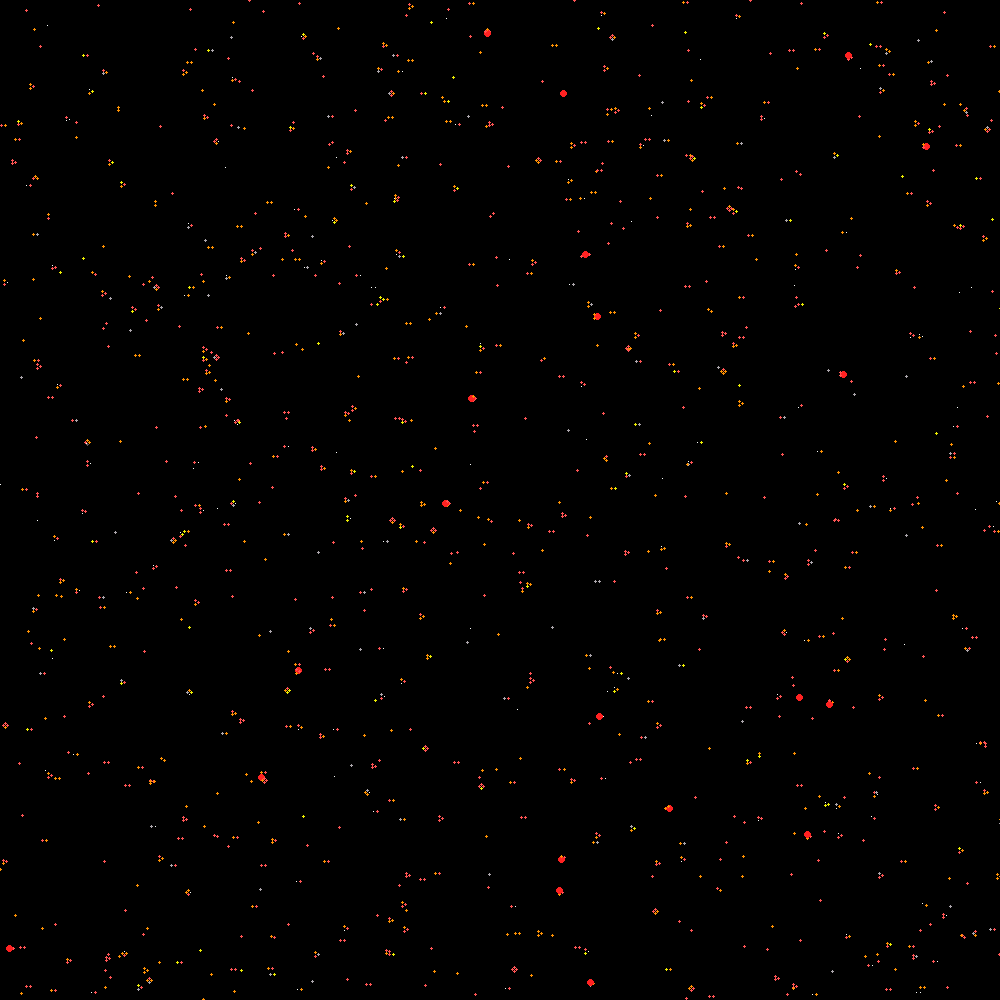
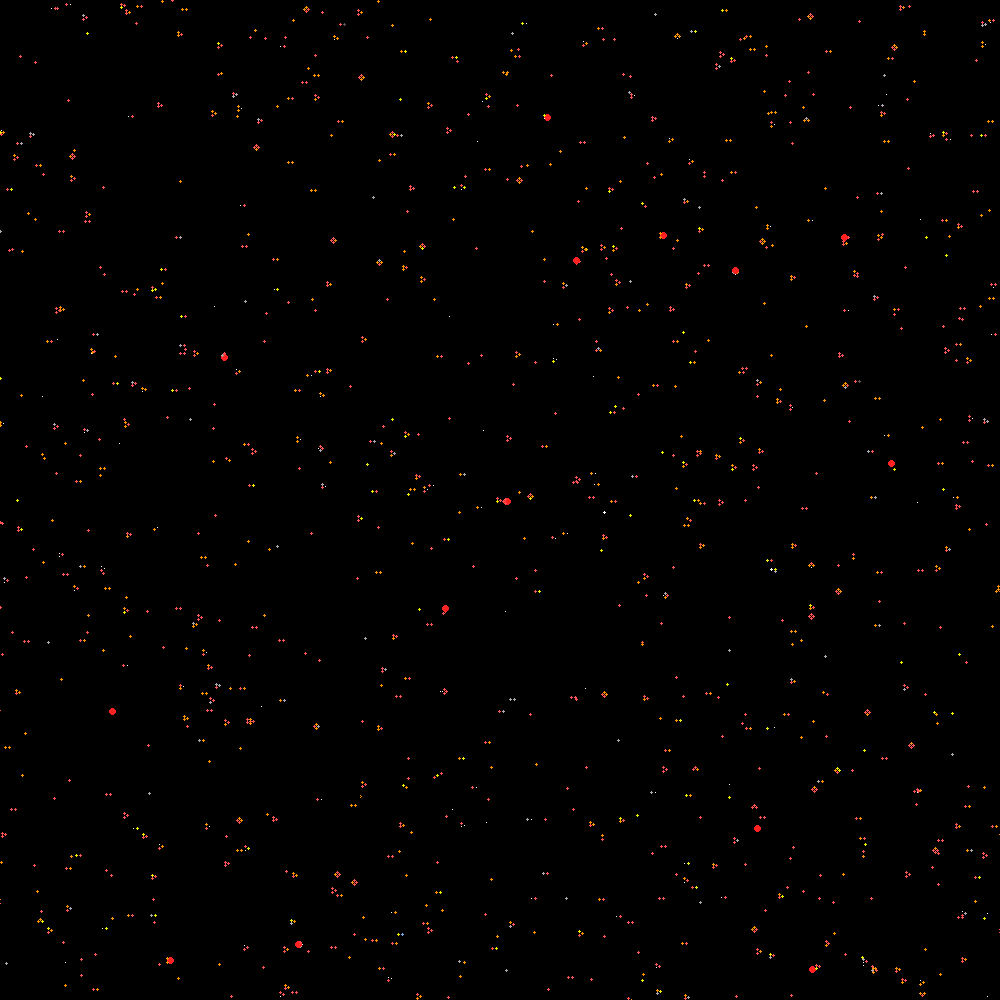
correctif post-refacto re-ouverture de la génération du disque sur 360° (limitée pour tests précédement)

diff --git a/loader.php b/loader.php
@@ -1,7 +1,9 @@
 <?php 
 //a chaque appel d'une classe non chargée on passera par ici
 function __autoload($class) {
-	$parts = preg_split('#\\\#', $class);	
+	$rootDir="/var/www/html/perso/bigbang/";
+	$parts = preg_split('#\\\#', $class);
+	
 	// on extrait le dernier element
 	$classname = array_pop($parts);	
 	
@@ -10,13 +12,14 @@ function __autoload($class) {
 	
 	
 	if(ereg("service", $classname)){
-		$filename = "./services/". $classname .".php";
+		$filename = $rootDir."services/". $classname .".php";
 	}else{
-		$filename = "./objects/". $classname ."_object.php";
+		$filename = $rootDir."objects/". $classname ."_object.php";
 	}
 
 	if(!file_exists($filename)){
-		throw new Exception("class not found ".$filename." (".$class.")");
+		
+		throw new Exception("Class definition file not found ".$filename." in ".basename(__DIR__) ."");
 	}
 	include_once($filename);
 }

diff --git a/views/viewer_zone.php b/views/viewer_zone.php
@@ -1,5 +1,7 @@
 <?php
 	$src="./viewer_zone_work.php";
+	$distance=20000;
+	$angle=61;
 	if(!empty($_POST)){
 		$distance=urlencode($_POST['distance']);
 		$angle=urlencode($_POST['angle']);
@@ -11,8 +13,8 @@
 <body style=''>
 	<div style=''>
 				<form method='POST' id='form'>
-				Angle: <input type='text' name='angle' value='61' size="5"/>
-				Distance:  <input type='text' name='distance' value='20000'  size="8" />
+				Angle: <input type='text' name='angle' value='<?php echo  $angle;?>' size="5"/>
+				Distance:  <input type='text' name='distance' value='<?php echo $distance;?>'  size="8" />
 				Altitude:  <input type='text' name='altitude' value='0'  size="5"/>
 				<input type='submit' name='ok' value='Go'>
 				</form>

diff --git a/views/viewer_system_work.php b/views/viewer_system_work.php
@@ -1,9 +1,9 @@
 <?php
 namespace BigBang;
 require_once('../MySQLi_2.php');
-require('../loader.php');
+require_once('../loader.php');
 
-//header("Content-type: image/png");
+header("Content-type: image/png");
 $image= imagecreate(1200, 1200);
 
 $noir = imagecolorallocate($image, 0, 0, 0);
@@ -52,7 +52,7 @@ $resStar=$mysqli->query($sqlStars);
 $cpt=0;
 while($star=$resStar->fetch_assoc()){
 		
-	$stars[$star['id']]=array('rayonAs'=>$star['rayon']/Universe::$astron,
+	$stars[$star['id']]=array('rayonAs'=>$star['rayon']/ Universe::$astron, 
 		'distance'=>$star['distanceBarycentre'],'couleur'=>$hexaByTypeSurcharge[$star['typeSurcharge']]
 	);
 	$cpt++;

diff --git a/objects/Systeme_object.php b/objects/Systeme_object.php
@@ -100,7 +100,7 @@ class Systeme{
 			case "partout":
 			default:
 				
-				$this->angle=maths_service::float_rand(0,60,4);
+				$this->angle=maths_service::float_rand(0,360,4);
 				//$this->distance=maths_service::float_rand(Galaxy::$rayonMin,Galaxy::$rayonMax,2);
 				$this->distance=maths_service::probaDescendante(Galaxy::$rayonMin,Galaxy::$rayonMax,2);
 				break;	
